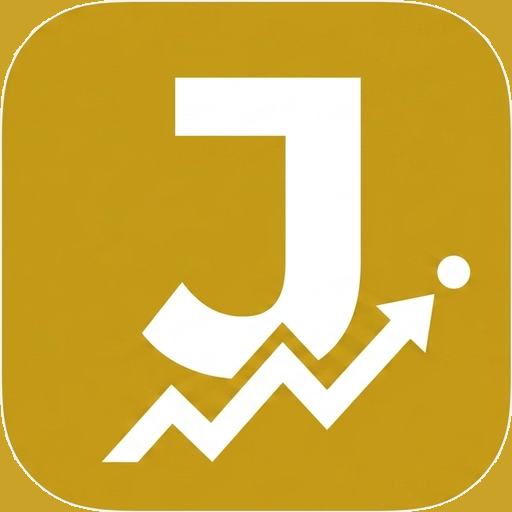
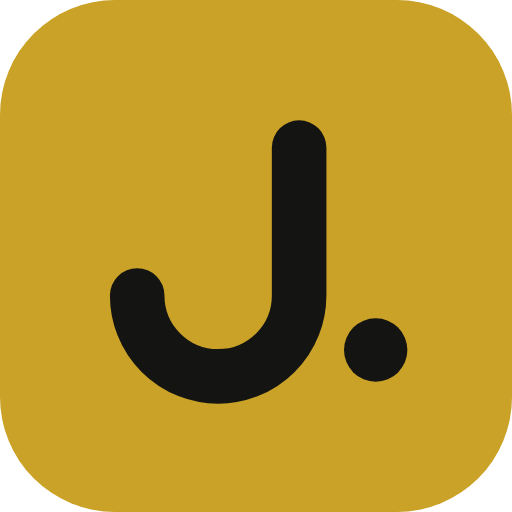
v2.11.3: uusi kuvake uuden ulkoasun mukaisesti
- Viiva-J + piste kultaisella pohjalla (sama viivakieli kuin ikonisarjassa)
- icon-192/512 (pyöristetty), icon-maskable-512 (Android), apple-touch-icon (iOS)
- manifest: erillinen maskable-kuvake; sw.js välimuistiin uudet kuvakkeet
- Hyväksymistestit 141/141, SW-asennus tarkistettu

Claude-Session: https://claude.ai/code/session_01KD7JWWs3LD9rnyYpGYwjh1

Changed region(s): [[0.1875, 0.125, 0.8438, 0.9062], [0.0, 0.0, 1.0, 1.0], [0.8438, 0.5, 0.9375, 0.5625]]

diff --git a/index.html b/index.html
@@ -9,7 +9,8 @@
 <meta name="theme-color" content="#0a0a0a">
 <meta name="mobile-web-app-capable" content="yes">
 <link rel="manifest" href="./manifest.webmanifest">
-<link rel="apple-touch-icon" href="./icon-192.png">
+<link rel="apple-touch-icon" href="./apple-touch-icon.png">
+<link rel="icon" type="image/png" sizes="192x192" href="./icon-192.png">
 <title>Järkäle tracking</title>
 <link rel="preconnect" href="https://fonts.googleapis.com">
 <link rel="preconnect" href="https://fonts.gstatic.com" crossorigin>
@@ -804,7 +805,7 @@ span.mo-date{background:transparent;color:var(--dim);}
       <div style="color:var(--dim);font-size:11px;text-align:center;line-height:1.7;padding:0 10px 16px">
         Data tallennetaan tämän selaimen localStorage:iin.<br>
         Varmuuskopioi säännöllisesti → tallenna Google Driveen.<br><br>
-        <span style="color:var(--bord)">Järkäle tracking v2.11.2</span>
+        <span style="color:var(--bord)">Järkäle tracking v2.11.3</span>
       </div>
     </div>
   </div>
@@ -834,6 +835,9 @@ span.mo-date{background:transparent;color:var(--dim);}
 // ═══ HISTORICAL DATA ═══════════════════════════════════════════
 const HIST_W=[];const HIST_S=[];const HIST_BP=[];const HIST_MEAS=[];const WEEK1=new Date("2020-01-01");
 const CHANGELOG=[
+  {v:"2.11.3", d:"lokakuu 2026", items:[
+    "Uusi kuvake uuden ulkoasun mukaisesti: tumma viiva-J ja piste kultaisella pohjalla. Androidin pyöreä kuvake ja iPhonen kotinäyttö saavat omat versionsa. Jos kotinäytön kuvake ei vaihdu, poista pikakuvake ja lisää se uudelleen (tiedot säilyvät).",
+  ]},
   {v:"2.11.2", d:"lokakuu 2026", items:[
     "Viikkoyhteenveto: korostettu havaintolaatikko poistettu (se toisti näkyvää tietoa). Treenin kulku yhdellä rivillä, ja sen alla rinnakkainen vertailu: kuinka usein uni jäi alle tavoitteen heikommin kulkeneina vs. muina treenipäivinä. Kivuissa \"jatkunut N pv\".",
   ]},

diff --git a/sw.js b/sw.js
@@ -1,4 +1,4 @@
-const CACHE='jarkale-v136';const FILES=['./', './index.html','./manifest.webmanifest','./icon-192.png','./icon-512.png'];
+const CACHE='jarkale-v137';const FILES=['./', './index.html','./manifest.webmanifest','./icon-192.png','./icon-512.png','./icon-maskable-512.png','./apple-touch-icon.png'];
 self.addEventListener('install',e=>{e.waitUntil(caches.open(CACHE).then(c=>c.addAll(FILES)).then(()=>self.skipWaiting()));});
 self.addEventListener('activate',e=>{e.waitUntil(caches.keys().then(keys=>Promise.all(keys.filter(k=>k!==CACHE).map(k=>caches.delete(k)))).then(()=>self.clients.claim()));});
 self.addEventListener('fetch',e=>{if(e.request.method!=='GET')return;if(e.request.url.includes('api.anthropic.com'))return;e.respondWith(caches.match(e.request).then(cached=>{if(cached)return cached;return fetch(e.request).then(resp=>{if(!resp||resp.status!==200)return resp;caches.open(CACHE).then(c=>c.put(e.request,resp.clone()));return resp;}).catch(()=>caches.match('./index.html'));}));});
